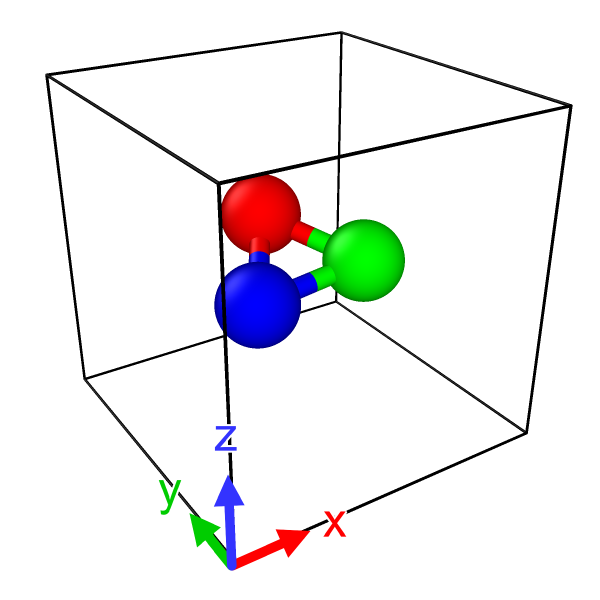
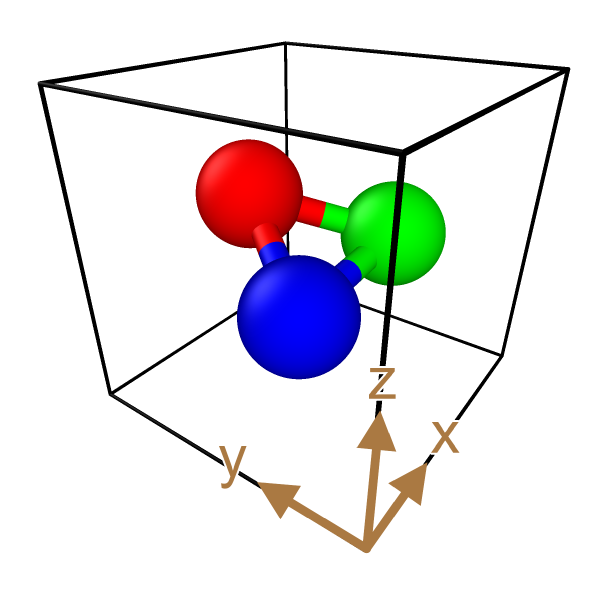
Added images and video to the What's New docs page

diff --git a/doc/manual/new_features.rst b/doc/manual/new_features.rst
@@ -5,7 +5,7 @@ Changelog
 =========
 
 ----------------------------
-Version 3.10.0 (xx-Dec-2023)
+Version 3.10.0 (28-Dec-2023)
 ----------------------------
 
 .. rubric:: Perspective distortion for axis indicators
@@ -52,18 +52,31 @@ information.
 
 .. rubric:: |ovito-pro| New renderer: NVIDIA VisRTX
 
-We've added the :ref:`rendering.visrtx_renderer` and corresponding Python class :py:class:`ovito.vis.AnariRenderer`.
-VisRTX offers hardware-accelerated ray-tracing on NVIDIA GPUs and can generate high-fidelity scene renderings
-in a fraction of a second -- even for complex datasets.
+.. image:: /images/new_features/Anari_logo.svg
+  :width: 30%
+  :align: right
 
-TODO: ADD IMAGE
+We've added the :ref:`rendering.visrtx_renderer` and a corresponding Python class :py:class:`ovito.vis.AnariRenderer`,
+which make use of the cross-vendor `Khronos ANARI <https://www.khronos.org/anari/>`__ API.
+The VisRTX rendering backend offers hardware-accelerated ray-tracing on NVIDIA GPUs and can generate high-fidelity scene renderings
+in a fraction of a second -- even for complex datasets containing millions of objects.
+
+.. |visrtx-video| raw:: html
+
+  <video width="301" height="220" controls autoplay muted loop playsinline>
+    <source src="https://www.ovito.org/download/data/visrtx_render_demo.mp4" type="video/mp4">
+  </video>
+
+|visrtx-video|
 
 .. rubric:: Remote trajectory rendering function |ovito-pro|
 
-Added :ref:`usage.remote_rendering` - prepare OVITO scenes on your local computer
-and easly render them on a remote HCP cluster.
+Added a function for :ref:`usage.remote_rendering`. It lets you prepare trajectory visualizations on your local computer
+and easily render them on a parallel HPC cluster. OVITO Pro takes care of packaging all required data files
+and generating the necessary job scripts for you.
 
-TODO: ADD IMAGE
+.. image:: /images/new_features/remote_rendering_function.png
+  :width: 40%
 
 .. rubric:: Further changes in this program release:
 
@@ -77,6 +90,7 @@ TODO: ADD IMAGE
 * |ovito-python| Renamed existing parameter traits types :py:class:`ovito.traits.OvitoObject` and :py:class:`ovito.traits.Color`
 * |ovito-python| Restricted :py:meth:`ovito.Scene.load` to session state files written by *OVITO Pro* or the Python module
 * |ovito-python| Added function parameter ``pipeline_node`` to :py:meth:`ModifierInterface.modify() <ovito.pipeline.ModifierInterface.modify>`
+* |ovito-python| :py:class:`~ovito.data.SurfaceMeshTopology` class now performs out-of-range checks on function parameters.
 * |ovito-pro| OpenGL, OSPRay, and Tachyon renderers: Added buttons to reset numeric parameters to their default values
 * |ovito-pro| :ref:`User-defined parameters <writing_custom_modifiers.advanced_interface.user_params>` can now be grouped in the UI by means of the new ``ovito_group`` metadata attribute
 